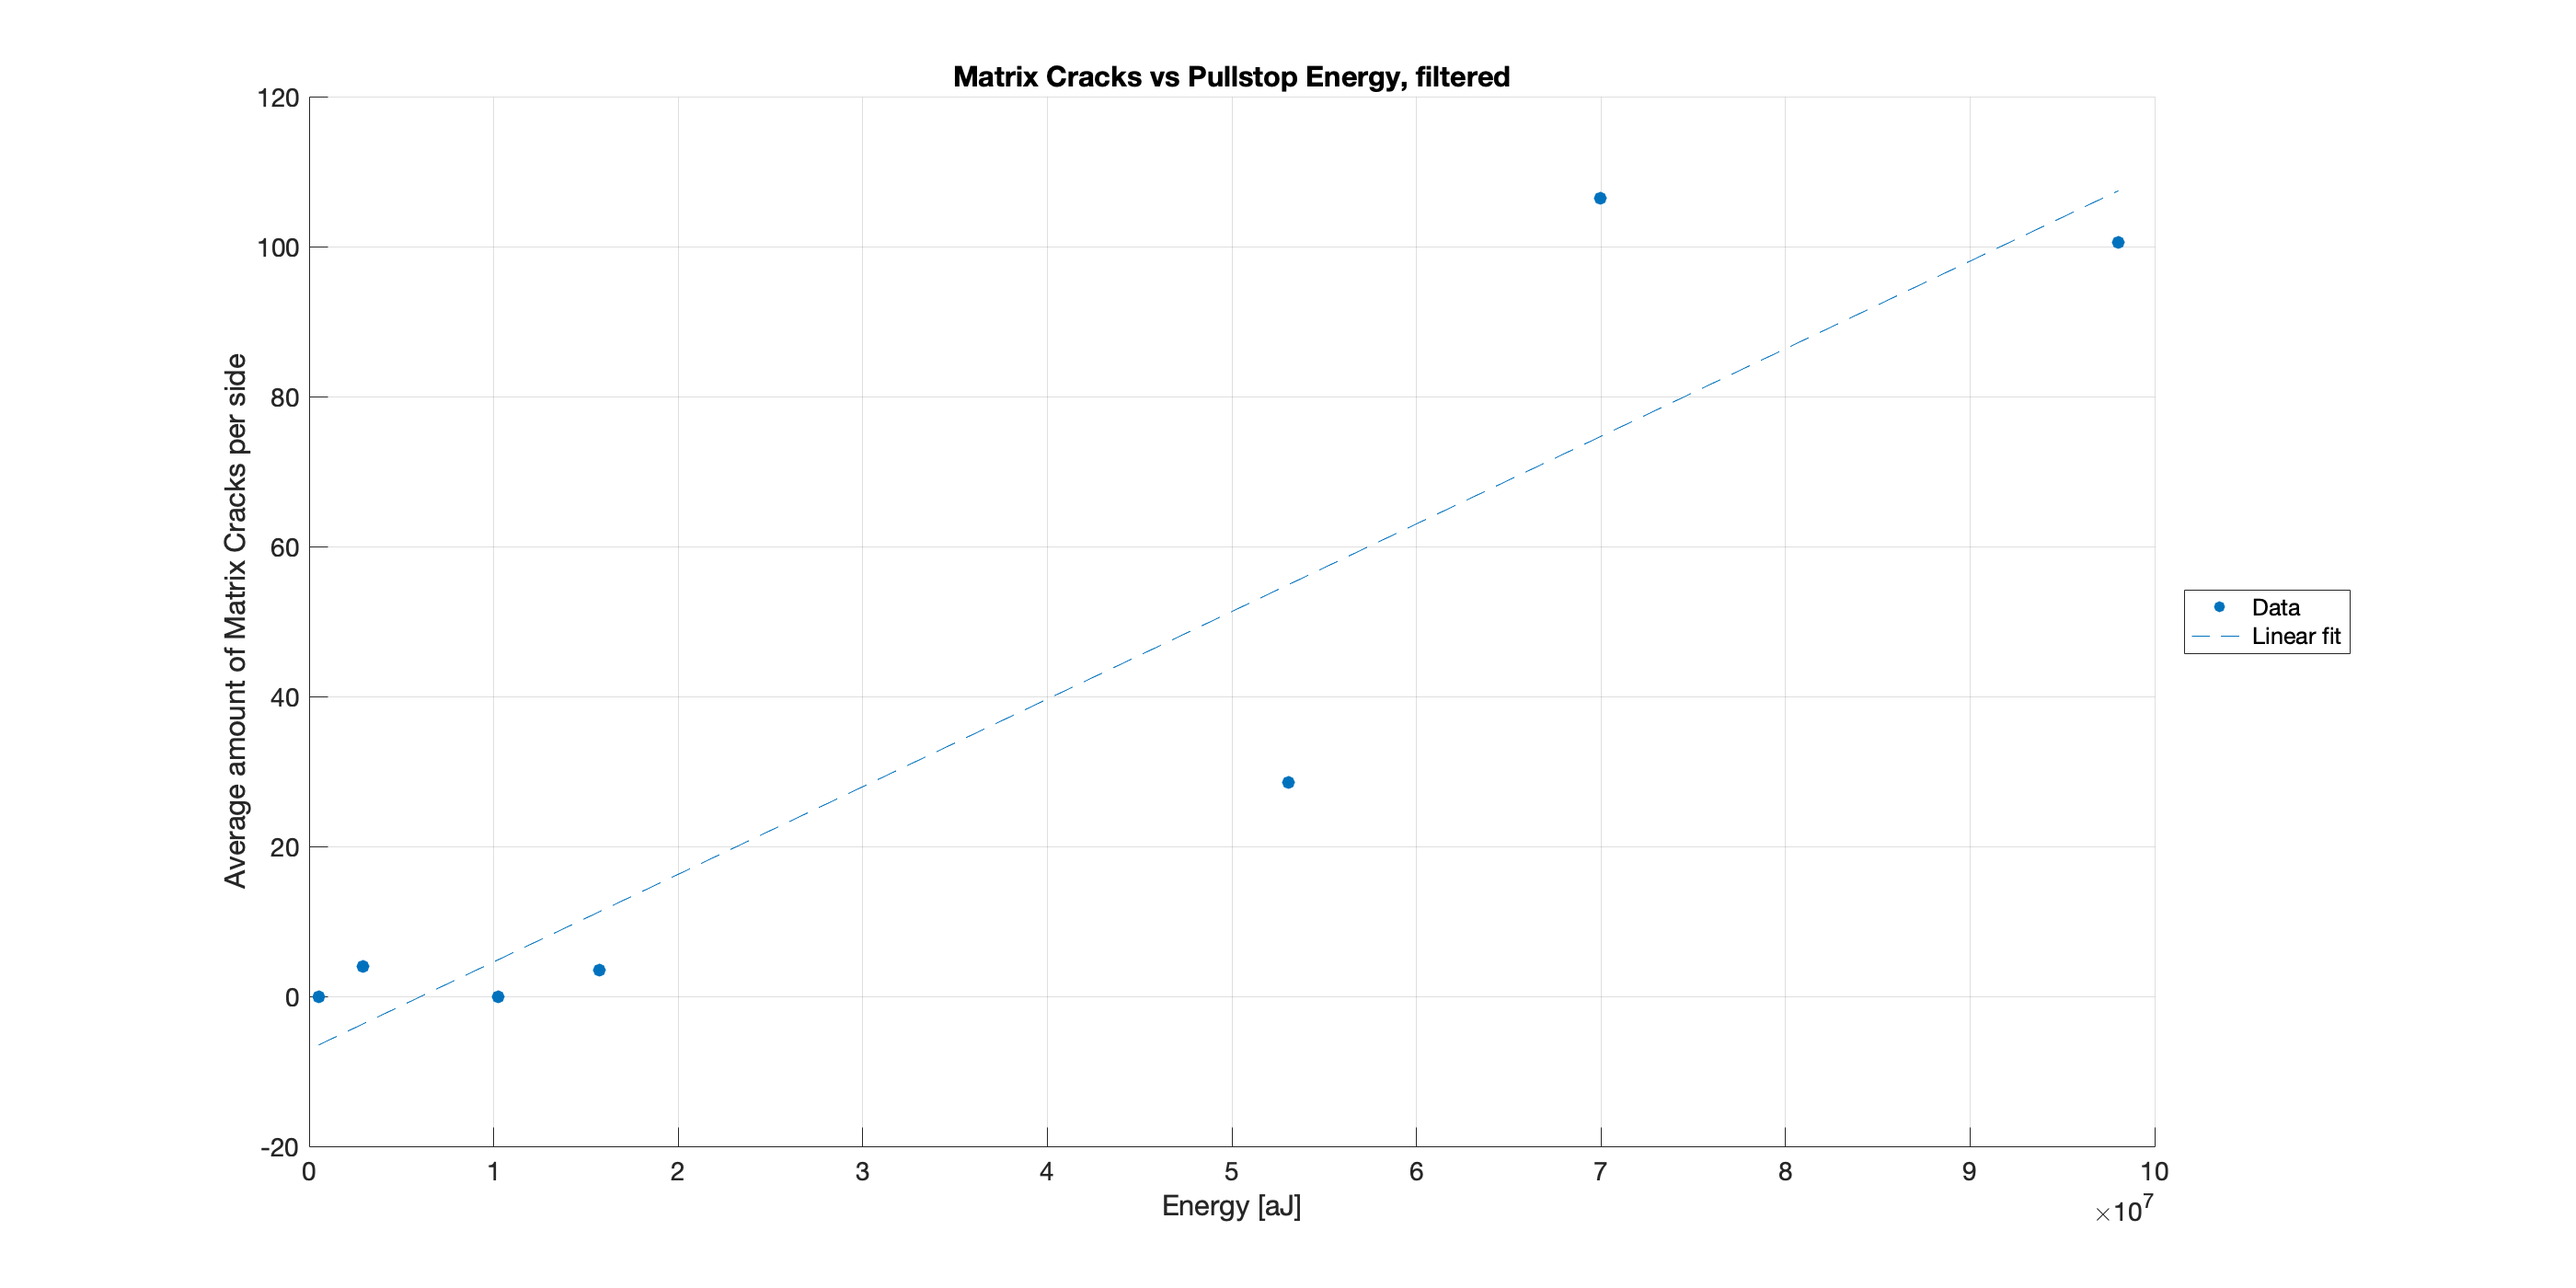
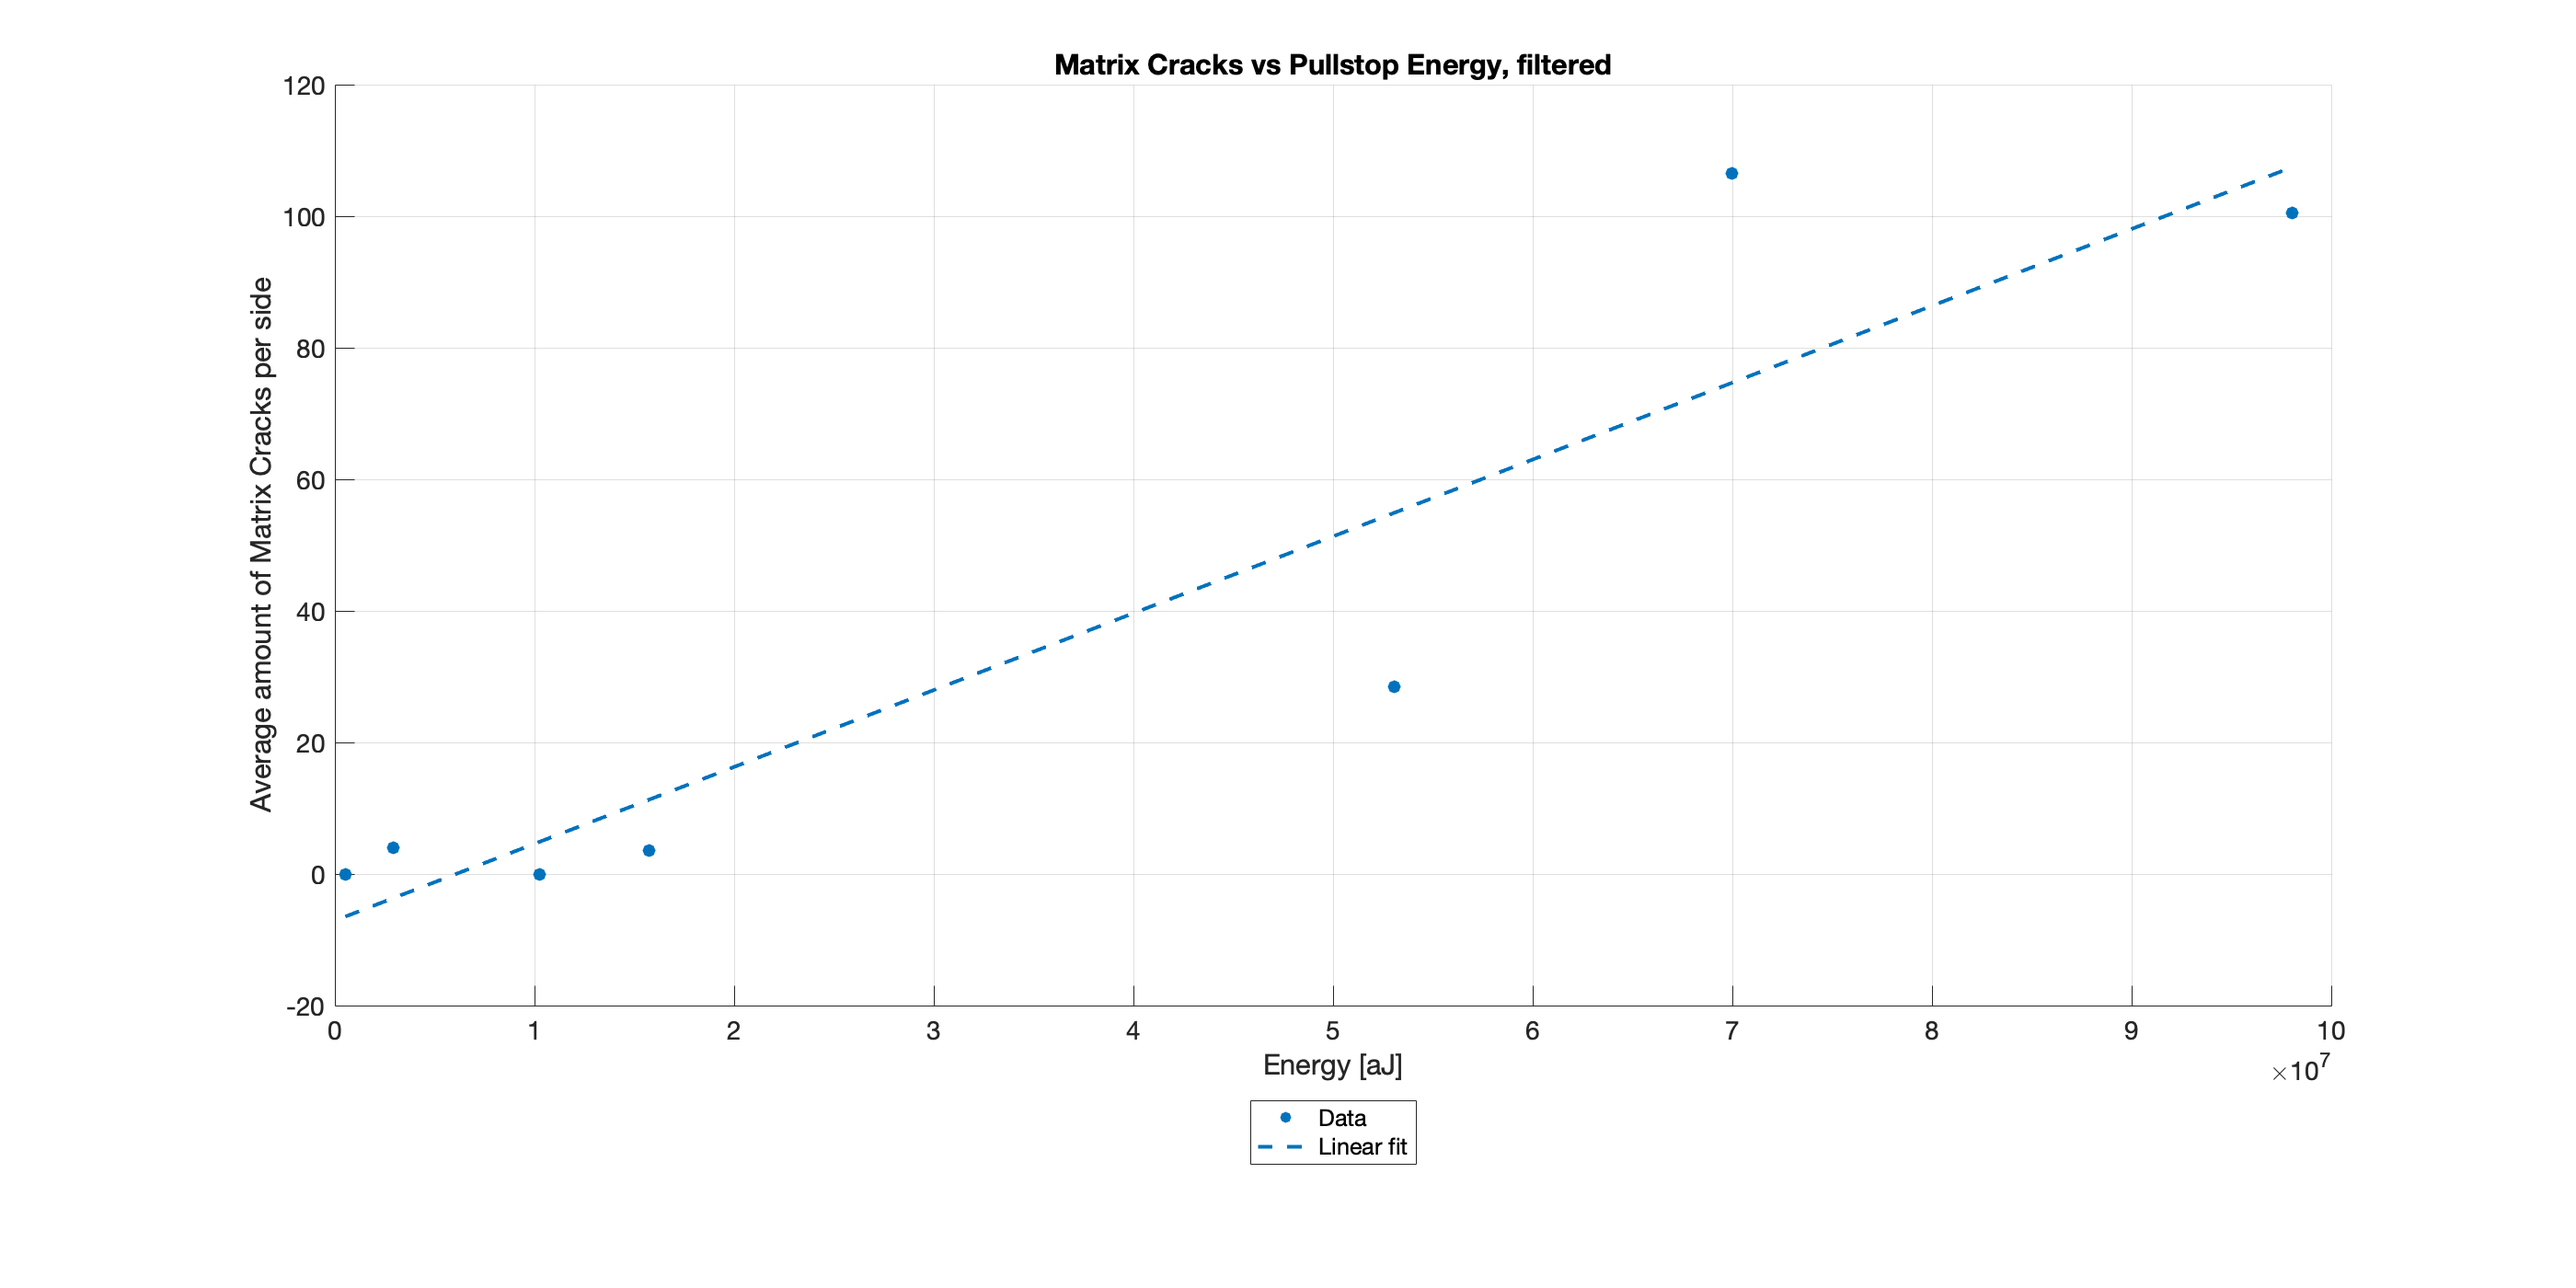
Made changes to the Cracks Energy Graphs

diff --git a/Plots/PP_Cracks_Energy.m b/Plots/PP_Cracks_Energy.m
@@ -1,0 +1,59 @@
+% Instructions:
+% Enter all crack data below
+% But the data of the specimens without tabs last
+% Enter how many specimens didn't have tabs
+
+% cracks = [126, 122, 44, 6, 5, 0, 0];
+% p_cracks = [87, 79, 13, 1, 3, 0, 0];
+cracks = [106.5, 100.5, 28.5, 3.5, 4, 0, 0];
+
+no_tabs = 0;
+
+energy_data = table2array(SV.EnergyTable(1:(end-no_tabs), 2:4));
+energy_data_notabs = table2array(SV.EnergyTable((end-no_tabs+1):end, 2:4));
+
+cracks_data = cracks(:, 1:(end-no_tabs));
+cracks_data_notabs = cracks(:, (end-no_tabs+1):end);
+
+max_stress = cellfun(@max, SV.Fun_TensileStress);
+
+energy_titles = ["Pullstop Energy"];
+energy_stop_col = [2];
+
+
+for t = energy_titles
+
+    i = find(t == energy_titles);
+    e = energy_data(:, energy_stop_col(i))';
+    e_nt = energy_data_notabs(:, energy_stop_col(i))';
+
+    figure('name', "Matrix Cracks vs Acoustic Energy",...
+        'Position',[60,60,1400/2,700/1.5]);
+    hold on
+
+    lf_mc_en = polyfit(e, cracks_data, 1);
+    % lcp = polyfit(x, p_cracks, 1);
+    lff_mc_en = polyval(lf_mc_en, [min(e) max(e)]);
+    % fp = polyval(lcp, x);
+
+    scatter(e, cracks_data, 50, "filled", "Color", "#0072BD");
+    % scatter(e_nt, cracks_data_notabs, 50, "filled", "Color", "#808080");
+    plot([min(e) max(e)], lff_mc_en, "LineStyle",...
+        "--", "Color", "#0072BD", "LineWidth", 2);
+    % scatter(x, p_cracks, 50, "filled", "b");
+    % plot(x, fp, "Color", "b", "LineStyle","--");
+
+    title("Matrix Cracks vs Acoustic Energy");
+    xlabel('Energy [aJ]');
+    ylabel('Number of Cracks');
+    legend(["Data", "Linear fit"], ...
+        'location','southoutside');
+    grid on
+    set(gca,'FontSize',14)
+    hold off
+end
+
+
+
+
+

diff --git a/Plots/Cracks_Energy.m b/Plots/Cracks_Energy.m
@@ -41,7 +41,8 @@ for t = energy_titles
 
     scatter(e, cracks_data, 50, "filled", "Color", "#0072BD");
     % scatter(e_nt, cracks_data_notabs, 50, "filled", "Color", "#808080");
-    plot([min(e) max(e)], lff_mc_en, "LineStyle", "--", "Color", "#0072BD");
+    plot([min(e) max(e)], lff_mc_en, "LineStyle",...
+        "--", "Color", "#0072BD", "LineWidth", 2);
     % scatter(x, p_cracks, 50, "filled", "b");
     % plot(x, fp, "Color", "b", "LineStyle","--");
 
@@ -50,7 +51,7 @@ for t = energy_titles
     xlabel('Energy [aJ]');
     ylabel('Average amount of Matrix Cracks per side');
     legend(["Data", "Linear fit"], ...
-        'location','east outside');
+        'location','southoutside');
     grid on
     set(gca,'FontSize',14)
     hold off

diff --git a/Plots/Cracks_Energy_two_points_2deg.m b/Plots/Cracks_Energy_two_points_2deg.m
@@ -95,6 +95,8 @@ for t = energy_titles
 
     lff_mc_st = lf_mc_en(:,1) * (lf_en_st(:,1) * max_stress_range.^2 + lf_en_st(:,2) * max_stress_range + lf_en_st(:,3)) + lf_mc_en(:,2);
 
+    lff_mc_st(lff_mc_st < 0) = 0;
+
     %lf_mc_st_real = polyfit(max_stress, cracks, 2);
     %lff_mc_st_real = polyval(lf_mc_st_real, st_range);
 

diff --git a/Cycle.m b/Cycle.m
@@ -1,4 +1,4 @@
-close all
+fclose all
 clear
 warning('off','all')
 warning
